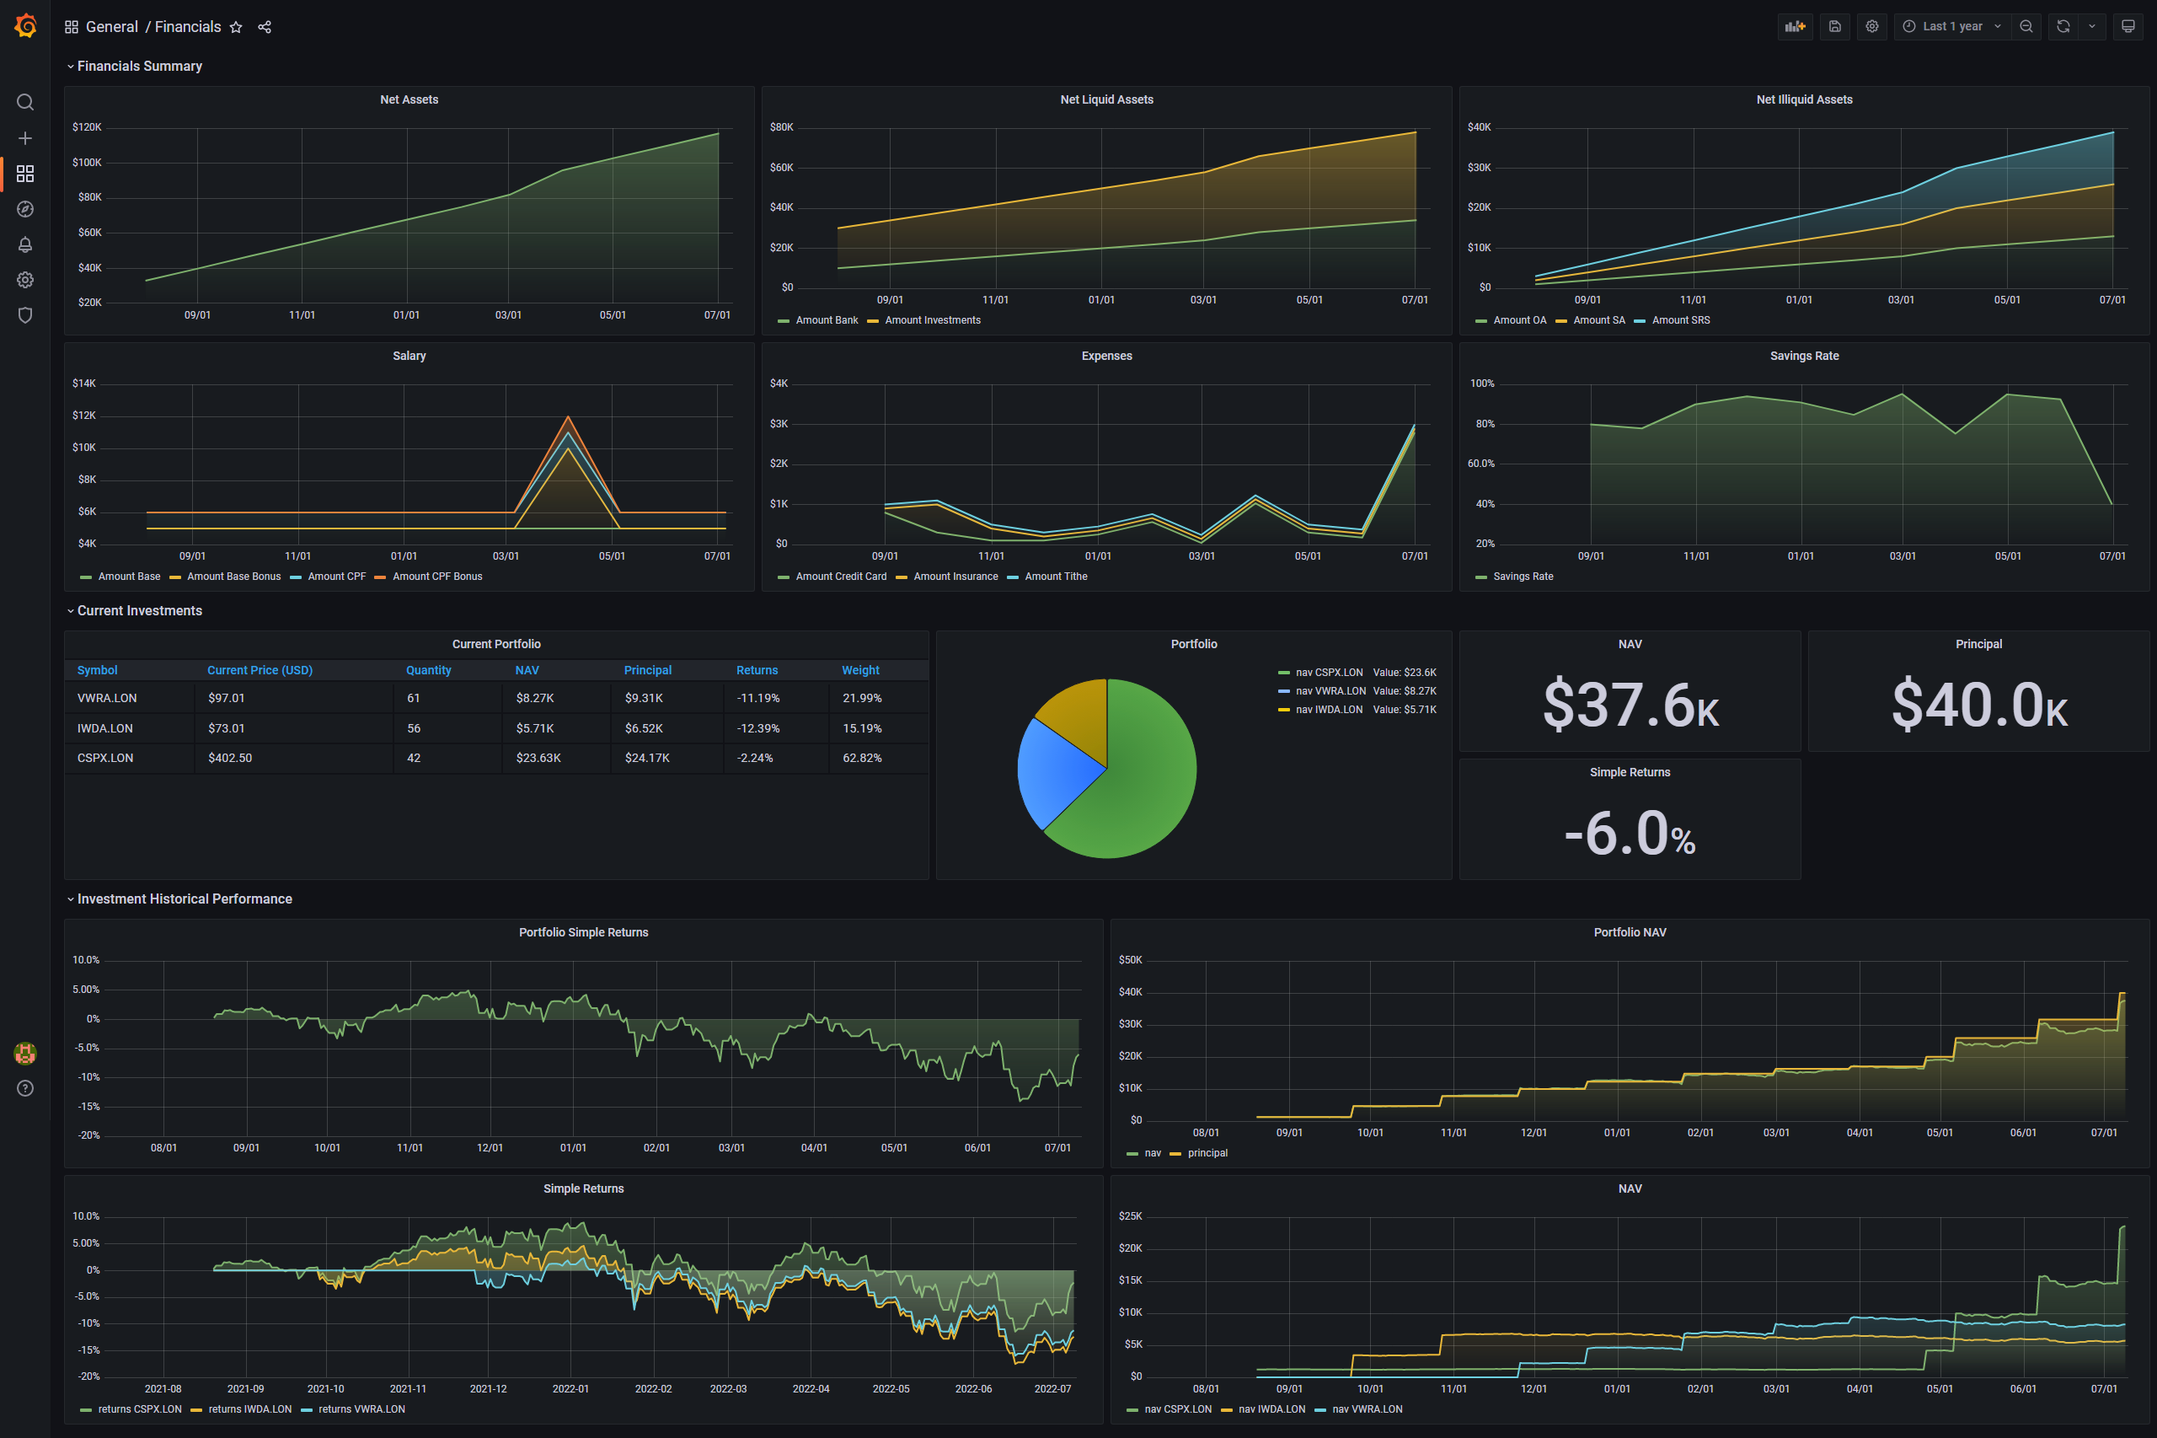
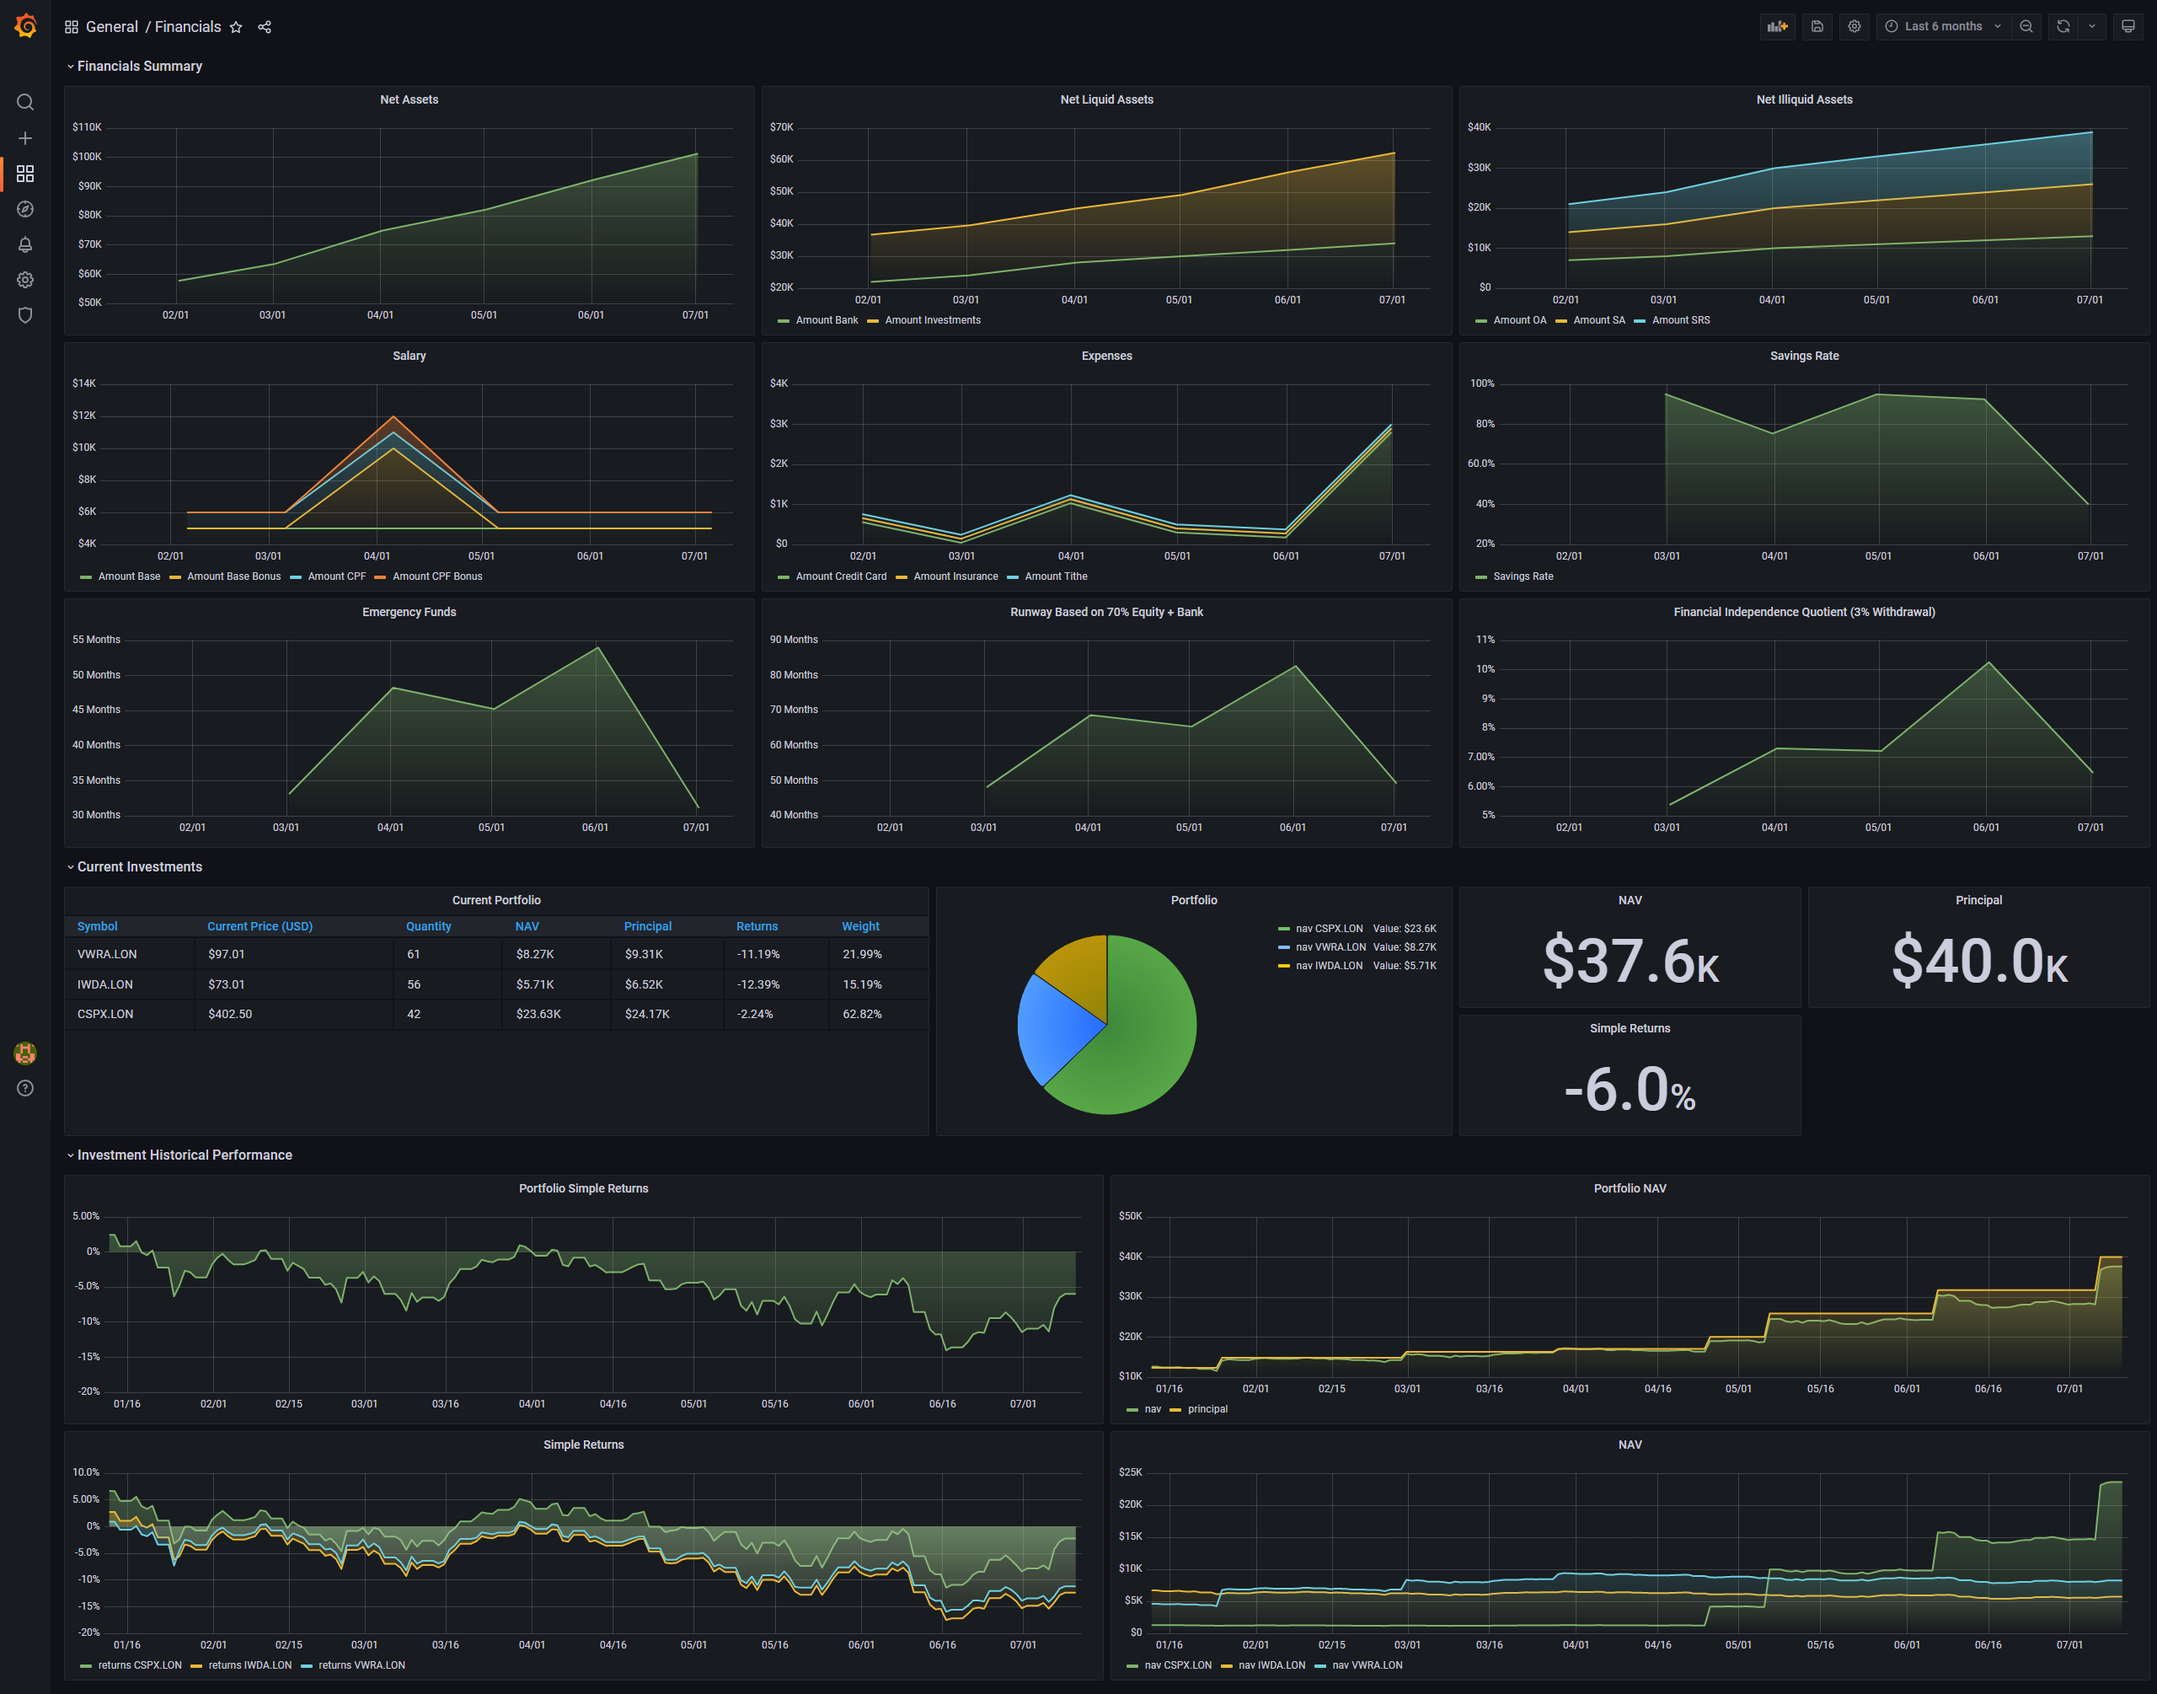
Add grafana graph for FI quotient and runways.

diff --git a/financials/src/expenditure.rs b/financials/src/expenditure.rs
@@ -29,7 +29,6 @@ pub fn calculate_average_expenditure(conn: &PgConnection) -> Result<(), Box<dyn 
 
     // Start from 1 year later.
     current_date = shift_months(current_date, WINDOW_PERIOD);
-    println!("{:?}", current_date);
     let tomorrow = chrono::offset::Utc::now() + Duration::days(1);
 
     let mut all_average_expenditures: Vec<AverageExpenditure> = Vec::new();
@@ -52,7 +51,6 @@ pub fn calculate_average_expenditure(conn: &PgConnection) -> Result<(), Box<dyn 
 
         current_date = get_last_day_of_month(shift_months(current_date, 1));
     }
-    println!("{:?}", all_average_expenditures);
     insert_into(average_expenditures)
         .values(all_average_expenditures)
         .execute(conn)?;

diff --git a/README.md b/README.md
@@ -12,9 +12,9 @@ This list is not exhaustive but a wishlist that I would work on when I'm free. M
 - [x] Monthly expenditure
 - [x] Income
 - [x] Total Net assets
-- [x] Automatic detection of investment amount (right now it is manually keyed in by user)
+- [x] Automatic detection of investment amount
+- [x] Financial Independence Quotient
 - [ ] Liabilities
-- [ ] Financial Independence Quotient
 
 
 ## Installing
